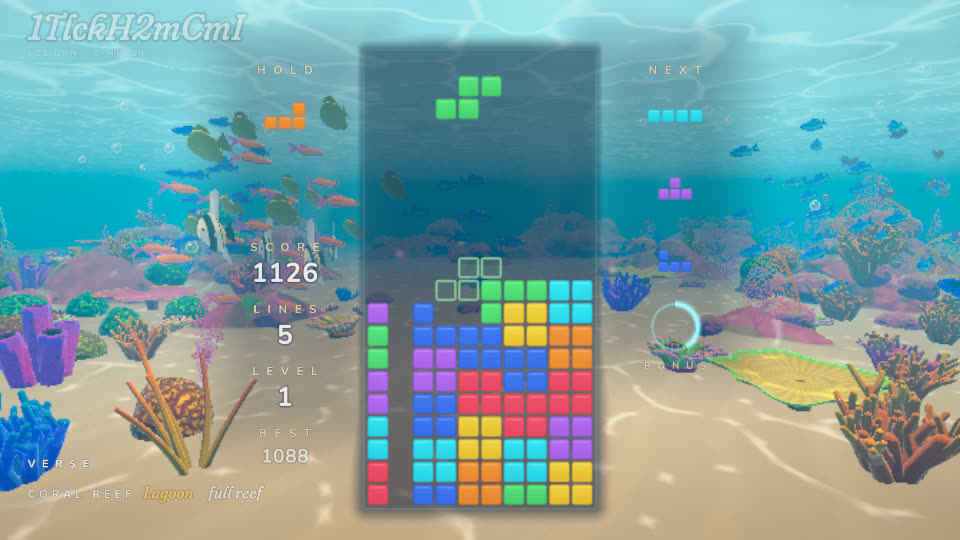
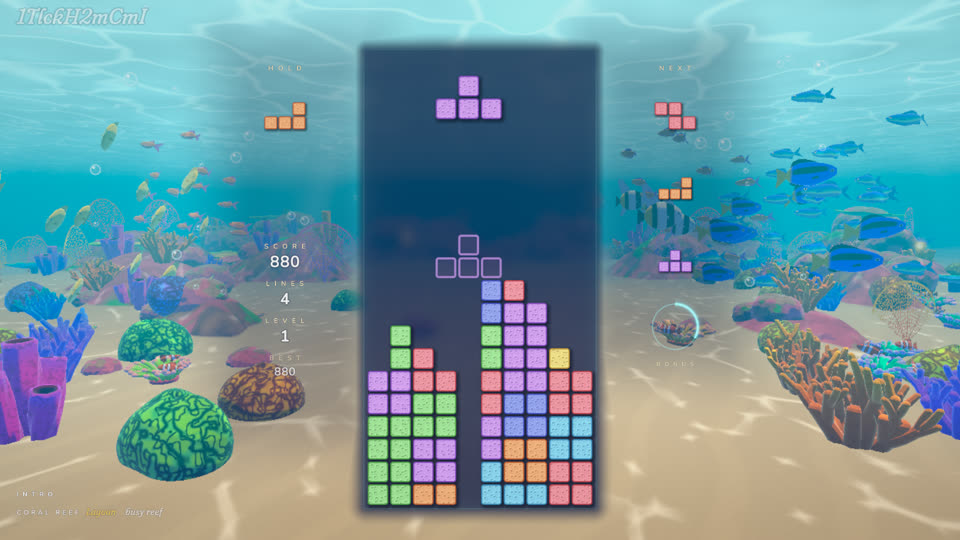
CORAL REEF: coral blocks in pale pastel hues, and the contrast from a deep-blue well
- Each cell is one clean rounded block of pale, sun-bleached coral: a porous calcified relief (polyp cups with raised lips, a fine grain) shaded from the top left, fading out at preview size, a crisp rim in a deeper tone of its own hue
- Pastel hue per piece type (sky blue, pale yellow, lilac, mint, coral pink, periwinkle, peach), tuned per variant
- Contrast from the background: a deeper, darker, bluer well backing (0.93), the world blurred behind the well, a soft contact shadow under the blocks (a soft glow in MOONLIT)
- The ghost is a thin outline in the piece's hue

Claude-Session: https://claude.ai/code/session_01TRpCVe8qgHvBr5qwovmpX7

diff --git a/src/universes/coralreef/shaders.hpp b/src/universes/coralreef/shaders.hpp
@@ -587,9 +587,25 @@ uniform vec2 uTan;
 uniform vec3 uRayC;
 uniform vec2 uSunVP;
 uniform float uRays, uSat;
+uniform vec4 uWellUv;   // the well's rectangle (uv), where the world is blurred
+uniform float uBlur;
 void main() {
     vec4 w = texture(uWorld, vUv);
     vec3 c = w.rgb;
+    {
+        vec2 dw = max(max(uWellUv.xy - vUv, vUv - uWellUv.zw), 0.0);
+        float k = (1.0 - smoothstep(0.0, 0.02, length(dw))) * uBlur;
+        if (k > 0.0) {
+            vec2 px = 1.0 / vec2(textureSize(uWorld, 0));
+            vec3 acc = c;
+            for (int i = 0; i < 12; i++) {
+                float an = float(i) * 2.39996;
+                float r = 2.5 + float(i) * 0.9;
+                acc += texture(uWorld, vUv + vec2(cos(an), sin(an)) * r * px).rgb;
+            }
+            c = mix(c, acc / 13.0, k);
+        }
+    }
     vec3 d = normalize(uLook + uCamR * (vUv.x * 2.0 - 1.0) * uTan.x + uCamU * (vUv.y * 2.0 - 1.0) * uTan.y);
     // the shafts: fanning down from the surface, from a point high above the view (toward the sun), drifting
     // slowly; they show over the water's depth in front of what they cross (none on what is near)
@@ -631,7 +647,7 @@ void main() {
         a = max(a, uColA * (1.0 - smoothstep(-1.5, 2.6, dc)));
     }
     // the well's own glass: a little lighter toward its top, where the light comes from
-    vec3 veil = uVeil * (1.0 + 0.25 * smoothstep(-10.0, 10.0, w.y) * step(dw, 0.0));
+    vec3 veil = uVeil * (1.0 + 0.12 * smoothstep(-10.0, 10.0, w.y) * step(dw, 0.0));
     float rail = clamp(1.0 - abs(dw) * uPx * 0.9, 0.0, 1.0) * 0.55 + exp(-abs(dw) * 3.0) * 0.1;
     rail *= smoothstep(10.4, 8.0, w.y) * 0.5 + 0.5;
     vec3 c = veil * a + uRail * rail * uRailA;
@@ -639,7 +655,10 @@ void main() {
 }
 )";
 
-// ---------------------------------------------------------------- pieces: one clean rounded tile per cell
+// ---------------------------------------------------------------- pieces: one coral block per cell
+// Each cell one clean rounded block of pale, sun-bleached coral: a porous calcified surface (polyp cups, a fine
+// grain) shaded like a relief from the top left, a crisp deeper rim of its own hue. A first pass lays a soft
+// contact shadow under the stack (a soft glow at night), the second the blocks. The ghost is a thin outline.
 inline const char* CELL_VS = R"(#version 330 core
 layout(location = 0) in vec2 aPos;
 layout(location = 1) in vec4 aA; // x, y, half, -
@@ -648,49 +667,92 @@ layout(location = 3) in vec4 aC; // mode (0 piece, 1 ghost), erase 0..1, -, -
 uniform mat4 uVP;
 out vec2 vLocal;
 out vec2 vWorld;
+flat out vec4 vA;
 flat out vec4 vB;
 flat out vec4 vC;
 void main() {
-    float ext = aA.z + 0.04;
+    float ext = aA.z * 1.36;
     vec2 wp = aA.xy + aPos * ext;
     vLocal = aPos * ext / (2.0 * aA.z);
     vWorld = wp;
-    vB = aB; vC = aC;
+    vA = aA; vB = aB; vC = aC;
     gl_Position = uVP * vec4(wp, 0.0, 1.0);
 }
 )";
 inline const char* CELL_FS = R"(#version 330 core
 in vec2 vLocal;
 in vec2 vWorld;
+flat in vec4 vA;
 flat in vec4 vB;
 flat in vec4 vC;
 out vec4 frag;
-uniform float uTime, uBridge, uShimmer;
-uniform vec3 uBridgeInk, uLightC;
+uniform float uTime, uBridge, uShimmer, uPass, uHaloA, uGlow;
+uniform vec2 uHaloOff;
+uniform vec3 uBridgeInk, uLightC, uHaloC;
 float sdBox(vec2 p, vec2 b) { vec2 d = abs(p) - b; return length(max(d, 0.0)) + min(max(d.x, d.y), 0.0); }
+// the calcified surface's height: polyp cups (the nearest of jittered centres) with raised lips, a fine grain
+float coral(vec2 q) {
+    vec2 i = floor(q), f = fract(q);
+    float d1 = 8.0;
+    for (int y = -1; y <= 1; y++)
+        for (int x = -1; x <= 1; x++) {
+            vec2 g = vec2(x, y);
+            vec2 r = g + 0.2 + 0.6 * hash2(i + g) - f;
+            d1 = min(d1, dot(r, r));
+        }
+    float d = sqrt(d1);
+    float cup = smoothstep(0.27, 0.08, d);
+    float lip = smoothstep(0.16, 0.28, d) * smoothstep(0.48, 0.3, d);
+    return 0.4 * lip - 0.8 * cup + 0.2 * vnoise(q * 2.7);
+}
 void main() {
     int mode = int(vC.x + 0.5);
     float erase = vC.y;
     float aa = max(length(fwidth(vLocal)) * 0.7071, 1e-4);
     float shrink = 1.0 - 0.7 * smoothstep(0.0, 1.0, erase);
-    vec2 q = vLocal / shrink;
-    float d = sdBox(q, vec2(0.45 - 0.13)) - 0.13;
-    float inside = 1.0 - smoothstep(-aa, aa, d * shrink);
     vec3 t = vB.rgb;
-    if (mode == 1) {
-        float ring = 1.0 - smoothstep(0.022, 0.022 + aa * 1.5, abs(d + 0.035));
-        float a = (ring * 0.8 + inside * 0.07) * vB.a;
-        vec3 c = mix(mix(t, vec3(1.0), 0.3), uBridgeInk, uBridge);
+    if (uPass < 0.5) {
+        // the contact shadow (or the night's glow) under a block
+        if (mode != 0) discard;
+        vec2 q = (vLocal - uHaloOff) / shrink;
+        float d = sdBox(q, vec2(0.45 - 0.13)) - 0.13;
+        float a = (1.0 - smoothstep(-0.06, 0.2, d)) * uHaloA * vB.a * (1.0 - smoothstep(0.3, 1.0, erase)) * (1.0 - uBridge);
+        vec3 c = mix(uHaloC, t * 0.8, uGlow);
         frag = vec4(c * a, a);
         return;
     }
-    // solid, lit softly from above (the sun through the water), its edge a shade deeper
-    vec3 c = t * mix(0.86, 1.06, smoothstep(-0.5, 0.5, q.y));
-    c = mix(c, mix(t, vec3(1.0), 0.32), (1.0 - smoothstep(0.0, 0.07, abs(q.y - 0.31))) * smoothstep(0.42, 0.2, abs(q.x)) * 0.35);
+    vec2 q = vLocal / shrink;
+    float d = sdBox(q, vec2(0.45 - 0.13)) - 0.13;
+    float inside = 1.0 - smoothstep(-aa, aa, d * shrink);
+    if (inside <= 0.0) discard;
+    if (mode == 1) {
+        float ring = 1.0 - smoothstep(0.03, 0.03 + aa * 1.5, abs(d + 0.04));
+        float a = (ring * 0.85 + inside * 0.06) * vB.a;
+        vec3 c = mix(t, uBridgeInk, uBridge);
+        frag = vec4(c * a, a);
+        return;
+    }
+    // the relief: polyp cups over the block (each cell its own), fading out when tiny on screen
+    float lod = smoothstep(0.11, 0.035, aa);
+    vec2 cq = q * 4.4 + vA.xy * 1.37;
+    float e = 0.06;
+    float h0 = coral(cq), hx = coral(cq + vec2(e, 0.0)), hy = coral(cq + vec2(0.0, e));
+    vec3 n = vec3(-(hx - h0) / e * 0.22 * lod, -(hy - h0) / e * 0.22 * lod, 0.0);
+    // the block's own rounded body, lit from the top left
+    float edgeK = smoothstep(0.0, 0.16, -d);
+    n = normalize(n + vec3(-q * (1.0 - edgeK) * 1.4, 1.0));
+    vec3 L = normalize(vec3(-0.45, 0.6, 0.66));
+    float diff = dot(n, L);
+    vec3 c = t * (0.7 + 0.42 * diff);
+    c *= mix(1.0, 0.8 + 0.2 * smoothstep(-0.7, 0.1, h0), lod);
+    c = mix(c, mix(t, vec3(1.0), 0.45), smoothstep(0.92, 1.0, diff) * 0.35);
     // a faint ripple of light drifting over the stack
     float w = sin(vWorld.x * 1.3 + vWorld.y * 0.7 + uTime * 0.8) + sin(vWorld.x * 0.6 - vWorld.y * 1.1 - uTime * 0.6);
-    c *= 1.0 + uShimmer * 0.05 * smoothstep(1.2, 2.0, w);
-    c = mix(c, t * 0.62, 1.0 - smoothstep(0.0, 0.04 + aa, -d));
+    c *= 1.0 + uShimmer * 0.04 * smoothstep(1.2, 2.0, w);
+    c += t * uGlow * 0.12;
+    // its crisp rim, a deeper tone of its own hue
+    vec3 deep = t * t * 0.55;
+    c = mix(c, deep, 1.0 - smoothstep(0.035, 0.035 + aa * 1.5, -d));
     c = mix(c, mix(t, vec3(1.0), 0.6), smoothstep(0.0, 0.5, erase) * 0.6);
     c = mix(c, uBridgeInk, uBridge);
     float a = inside * vB.a * (1.0 - smoothstep(0.45, 1.0, erase));

diff --git a/src/universes/coralreef/coralreef.cpp b/src/universes/coralreef/coralreef.cpp
@@ -89,26 +89,26 @@ const VariantDef VARIANTS[] = {
     {"LAGOON", 0x0fb8cc, 0x0646a0, 0x6ce4ee, 0xc4fcff, 0xfff6dc, 0x6a8ee0, 0xa8f6ff, 0xfffbe8, 0xeafff8,
      0xf2e0bc, 0xe0c294, 0xa47c6c, 0x6e5470, 0xf07aa0, 0x66c45a,
      {0xff5f8a, 0xa45cff, 0xffd02a, 0xff8a2a, 0x2fe0a8, 0xff3fd0, 0x9cf03a, 0x3a9cff},
-     0xffffff, 0xffd84a, 0x033250, 0x86ecf2,
-     {0x2fe6ff, 0xffd23a, 0xb46cff, 0x52e57a, 0xff4f6a, 0x3d78ff, 0xff9636}, 0.55f, 1.18f, 27.f, 1.f, 1.f, 0.08f, 0.f, 1.1f},
+     0xffffff, 0xffd84a, 0x022a56, 0x86ecf2,
+     {0x8edcfc, 0xffe48a, 0xd6a4ff, 0xa6ec9c, 0xff9ca8, 0x98a8ff, 0xffb680}, 0.55f, 1.18f, 27.f, 1.f, 1.f, 0.08f, 0.f, 1.1f},
     // A reef at golden hour: green-gold water, the sun low on one side, long warm shafts, warm corals.
     {"GOLDEN HOUR", 0x1aa2b4, 0x0a3a7c, 0xffc890, 0xffe2b0, 0xffcf88, 0x7a76c8, 0xffcc88, 0xffe2a4, 0xffcf84,
      0xf0dcc0, 0xdcb894, 0x8c6e6c, 0x6a5868, 0xff6a7a, 0xa0c048,
      {0xff5a5a, 0xa060ff, 0xffd23a, 0xff8a2a, 0x3ad0a0, 0xe048a8, 0xb0e048, 0x5a8cff},
-     0xfff6e8, 0xffb84a, 0x0e2c46, 0xffcf84,
-     {0x40e0f0, 0xffd040, 0xc070ff, 0x7ae060, 0xff5060, 0x5080ff, 0xff9a40}, -1.15f, 0.62f, 23.f, 1.35f, 0.85f, 0.06f, 0.f, 1.12f},
+     0xfff6e8, 0xffb84a, 0x0a1e46, 0xffcf84,
+     {0x92dcf4, 0xffe088, 0xd8a8fa, 0xb0e892, 0xff9ea4, 0x9eaafc, 0xffb478}, -1.15f, 0.62f, 23.f, 1.35f, 0.85f, 0.06f, 0.f, 1.12f},
     // The outer reef: deep cobalt water, crystal clear, a white sun high above.
     {"OUTER REEF", 0x1478d8, 0x062a80, 0x62bcff, 0xa4dcff, 0xf4fbff, 0x5a74d0, 0x90d4ff, 0xf0f8ff, 0xd8f0ff,
      0xd4deec, 0xb0bed6, 0x7c6c8a, 0x5a4c74, 0xd060c8, 0x48b890,
      {0xff6a7a, 0x9a5aff, 0xffd23a, 0xff7a30, 0x3ae0d0, 0xff4aa0, 0x8cf060, 0x4a8cff},
-     0xffffff, 0x7af0ff, 0x041a48, 0x90d4ff,
-     {0x38e8ff, 0xffd84a, 0xbe78ff, 0x5ae888, 0xff5a72, 0x4a86ff, 0xffa040}, 0.3f, 1.3f, 31.f, 1.1f, 1.f, 0.08f, 0.f, 1.1f},
+     0xffffff, 0x7af0ff, 0x02164a, 0x90d4ff,
+     {0x8edcfc, 0xffe48a, 0xd6a4ff, 0xa6ec9c, 0xff9ca8, 0x98a8ff, 0xffb680}, 0.3f, 1.3f, 31.f, 1.1f, 1.f, 0.08f, 0.f, 1.1f},
     // A moonlit night dive: indigo water, moonlight shafts, the corals glowing in fluorescent colors.
     {"MOONLIT", 0x0c3a7a, 0x03102e, 0x2a5ab8, 0x3a6ad8, 0xb8ccff, 0x2a3a88, 0x6aa0ff, 0xa8c8ff, 0x8ab0ff,
      0x8a9ac8, 0x6a78a8, 0x3a3c5a, 0x2a2c48, 0xc04aa0, 0x2a9a7a,
      {0xff5a8a, 0xb060ff, 0xffe040, 0xffa030, 0x30ffe0, 0xff40d0, 0xa0ff40, 0x6a7aff},
-     0xeef4ff, 0x6affe8, 0x020a24, 0x4a80ff,
-     {0x40f0ff, 0xffe060, 0xc080ff, 0x60f090, 0xff5a8a, 0x5a8cff, 0xffa050}, 0.9f, 1.05f, 21.f, 0.75f, 0.7f, 0.9f, 1.f, 1.1f},
+     0xeef4ff, 0x6affe8, 0x01061a, 0x4a80ff,
+     {0x9ae4ff, 0xffec98, 0xdeb0ff, 0xb0f2a6, 0xffa8b6, 0xa4b4ff, 0xffc092}, 0.9f, 1.05f, 21.f, 0.75f, 0.7f, 0.9f, 1.f, 1.1f},
 };
 constexpr int VARIANT_COUNT = (int)(sizeof(VARIANTS) / sizeof(VARIANTS[0]));
 int wrapV(int v) { return ((v % VARIANT_COUNT) + VARIANT_COUNT) % VARIANT_COUNT; }
@@ -1578,6 +1578,13 @@ void CoralReefUniverse::render(const Frame& f, GLuint fbo) {
     set2f(progComp_, "uSunVP", 0.5f + 0.35f * std::sin(pal_.sunAz) * std::cos(pal_.sunEl) * 2.f, 1.f + 1.6f * std::tan(pal_.sunEl) * 0.5f);
     set1f(progComp_, "uRays", pal_.rays * (0.75f + 0.15f * wm + 0.3f * wp + 0.3f * life + 0.15f * swell_));
     set1f(progComp_, "uSat", pal_.sat);
+    {
+        // the well's rectangle in uv (the world is blurred behind it)
+        const float u0 = (-5.3f - (viewC_.x - viewH_.x)) / (2.f * viewH_.x), u1 = (5.3f - (viewC_.x - viewH_.x)) / (2.f * viewH_.x);
+        const float v0 = (-10.3f - (viewC_.y - viewH_.y)) / (2.f * viewH_.y), v1 = (10.3f - (viewC_.y - viewH_.y)) / (2.f * viewH_.y);
+        set4f(progComp_, "uWellUv", u0, v0, u1, v1);
+        set1f(progComp_, "uBlur", f.bare ? 0.f : 1.f - bridge);
+    }
     ugl::drawFullscreen();
 
     glEnable(GL_BLEND);
@@ -1587,7 +1594,7 @@ void CoralReefUniverse::render(const Frame& f, GLuint fbo) {
         set4f(progVeil_, "uView", viewC_.x, viewC_.y, viewH_.x, viewH_.y);
         set3f(progVeil_, "uVeil", lerp(pal_.veil, bridge_.color, bridge));
         set3f(progVeil_, "uRail", lerp(pal_.rail * 0.5f, bridge_.ink * 0.4f, bridge));
-        set1f(progVeil_, "uWellA", 0.8f);
+        set1f(progVeil_, "uWellA", 0.93f);
         set1f(progVeil_, "uColA", 0.5f * (1.f - bridge));
         set1f(progVeil_, "uRailA", 0.45f);
         set1f(progVeil_, "uPx", pxPerUnit_);
@@ -1621,10 +1628,18 @@ void CoralReefUniverse::render(const Frame& f, GLuint fbo) {
             set3f(progCell_, "uLightC", pal_.sun);
             set1f(progCell_, "uBridge", smoothstepf(0.2f, 0.9f, bridge));
             set3f(progCell_, "uBridgeInk", bridge_.ink);
+            // a contact shadow under the blocks (at night a soft glow around them), then the blocks
+            set1f(progCell_, "uGlow", pal_.night);
+            set3f(progCell_, "uHaloC", vec3(0.f, 0.004f, 0.02f));
+            set1f(progCell_, "uHaloA", lerpf(0.75f, 0.32f, pal_.night));
+            set2f(progCell_, "uHaloOff", lerpf(0.07f, 0.f, pal_.night), lerpf(-0.09f, 0.f, pal_.night));
             glBindVertexArray(cellVao_);
             glBindBuffer(GL_ARRAY_BUFFER, cellVbo_);
             glBufferData(GL_ARRAY_BUFFER, cells_.size() * sizeof(CellInst), cells_.data(), GL_STREAM_DRAW);
-            glDrawArraysInstanced(GL_TRIANGLE_STRIP, 0, 4, (GLsizei)cells_.size());
+            for (int pass = 0; pass < 2; pass++) {
+                set1f(progCell_, "uPass", (float)pass);
+                glDrawArraysInstanced(GL_TRIANGLE_STRIP, 0, 4, (GLsizei)cells_.size());
+            }
         }
         // the bonus gauge: a faint ring, the charge a bright arc
         {

diff --git a/docs/universes.md b/docs/universes.md
@@ -507,7 +507,7 @@ A sunny shallow reef that grows with the cleared lines (code in `src/universes/c
 
 The corals are crafted procedurally once (`reef.cpp`): tapered tubes with rounded tips along branching paths, lathes and parametric sheets with their normals taken from the surface itself, three templates per form, instanced with a size, a turn and two of the variant's eight reef colors; their patterns are drawn by the shader in their own space (grooves, corallites, radial ridges and growth rings, the fan's lace cut out of its sheet, the sponges' pits), in a crisp toon light (a cool, water-tinted shade, a soft rim). **The fish are boids**: each keeps away from its nearest neighbours, matches their heading and keeps with them and with its school's target, stays over the reef and under the surface; its heading turns at a limited rate (smooth arcs, never a snap), it banks into its turns and its body ripples with a wave stronger at the tail, faster with its speed. The schools' targets wander along their stretch of reef, their height following the melody (the spectrum's centroid in the middle bands, eased), their pace the energy. Clownfish hover in their anemone's tentacles.
 
-The music: calm is still, slow water; mid stirs the fish and the surge; a peak brightens the shafts a step and the schools swim fast and tight, and the kicks gently pulse the caustics (a little brighter, the water surging on). **The drop** brings a manta ray, once a drop, gliding slowly past behind the well from one side to the other, its wings beating with a wave out to their tips, banking to show its dark back and pale shoulders. A Tetris gathers the schools into one big swirl beside the well (one side, then the other) for a few seconds. Slow motion turns the light deep blue (the water, the shade, the caustics and the shafts; the pieces and the HUD keep their colors). Game over sinks the light toward the deep. **The pieces** are one clean rounded tile per cell, one saturated color per piece type, softly lit from above with a faint ripple of light drifting over the stack and a thin deeper edge; the ghost is the outline; a cleared row shrinks away in place (its bubbles and seeds travel only in the world behind), a hard drop squeezes a few tiny bubbles out at the sides of the piece. The HUD is set in Nunito SemiBold capitals and Fraunces Soft Italic, the reef's stage after the universe's name (bare rock, first corals, young reef, growing reef, busy reef, full reef). Variants: **LAGOON** (turquoise water over white sand at midday), **GOLDEN HOUR** (the sun low on one side, long warm shafts, warm corals), **OUTER REEF** (deep cobalt, crystal-clear water, a white sun high above), **MOONLIT** (a night dive: indigo water, moonlight shafts, the corals glowing in fluorescent colors). Cost: the world at a reduced resolution (at most 720 lines) with depth, every world shader writing its distance for the shafts, which the full-resolution composite draws from a point high above the view; about 0.45 ms a frame on the GPU at 1080p with the full reef (an RTX 4090), the boids on the CPU.
+The music: calm is still, slow water; mid stirs the fish and the surge; a peak brightens the shafts a step and the schools swim fast and tight, and the kicks gently pulse the caustics (a little brighter, the water surging on). **The drop** brings a manta ray, once a drop, gliding slowly past behind the well from one side to the other, its wings beating with a wave out to their tips, banking to show its dark back and pale shoulders. A Tetris gathers the schools into one big swirl beside the well (one side, then the other) for a few seconds. Slow motion turns the light deep blue (the water, the shade, the caustics and the shafts; the pieces and the HUD keep their colors). Game over sinks the light toward the deep. **The pieces** are coral blocks: one clean rounded block per cell of pale, sun-bleached coral, one pastel hue per piece type (sky blue, pale yellow, lilac, mint, coral pink, periwinkle, peach), their porous calcified surface (polyp cups with raised lips, a fine grain) shaded as a restrained relief lit from the top left (fading out when tiny), a crisp rim in a deeper tone of their own hue, a soft contact shadow under them (a soft glow around them in MOONLIT), and a faint ripple of light drifting over the stack. The contrast comes from the background: the well is backed by a deep-blue water column (the world behind it blurred and nearly hidden); the ghost is the outline; a cleared row shrinks away in place (its bubbles and seeds travel only in the world behind), a hard drop squeezes a few tiny bubbles out at the sides of the piece. The HUD is set in Nunito SemiBold capitals and Fraunces Soft Italic, the reef's stage after the universe's name (bare rock, first corals, young reef, growing reef, busy reef, full reef). Variants: **LAGOON** (turquoise water over white sand at midday), **GOLDEN HOUR** (the sun low on one side, long warm shafts, warm corals), **OUTER REEF** (deep cobalt, crystal-clear water, a white sun high above), **MOONLIT** (a night dive: indigo water, moonlight shafts, the corals glowing in fluorescent colors). Cost: the world at a reduced resolution (at most 720 lines) with depth, every world shader writing its distance for the shafts, which the full-resolution composite draws from a point high above the view; about 0.45 ms a frame on the GPU at 1080p with the full reef (an RTX 4090), the boids on the CPU.
 
 ## GROCERIES (disabled)
 
